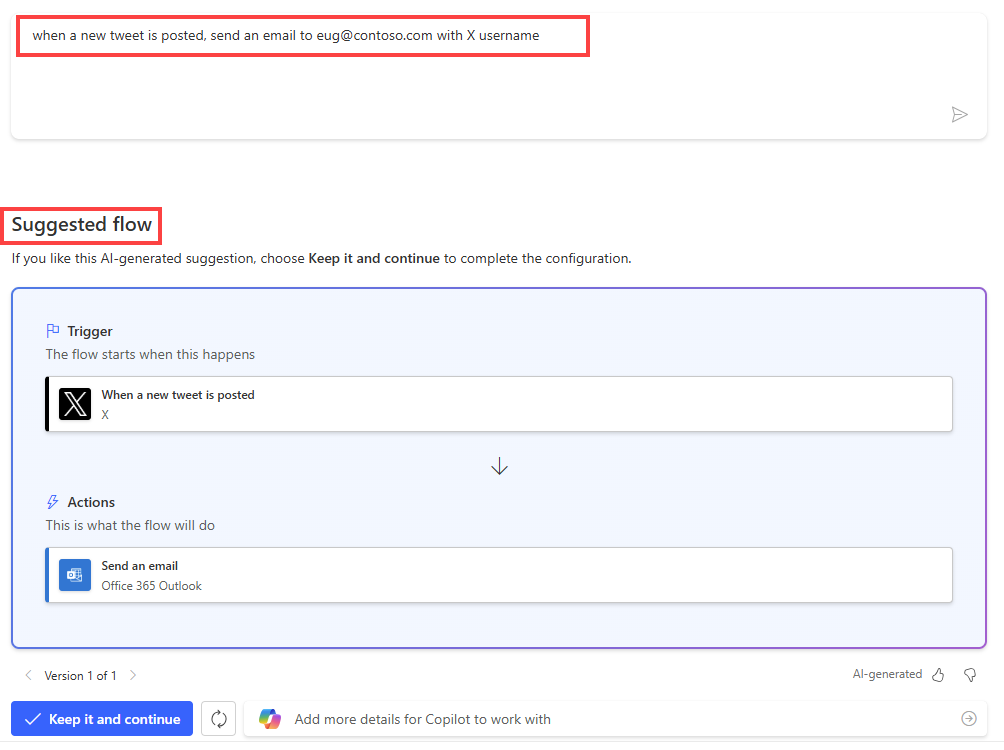
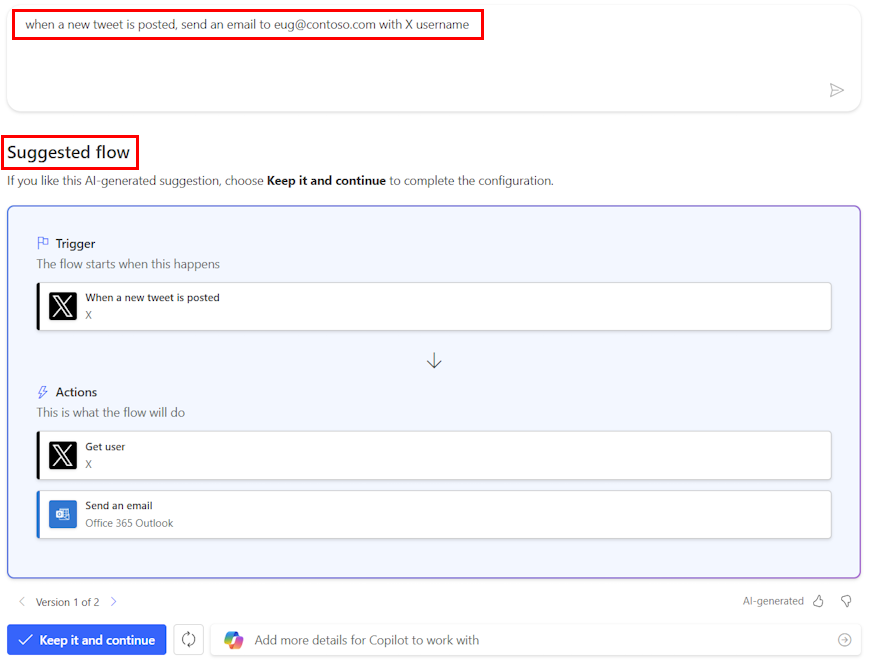
small-edits

diff --git a/articles/get-started-logic-flow.md b/articles/get-started-logic-flow.md
@@ -1,6 +1,6 @@
 ---
 title: Create a cloud flow in Power Automate
-description: Learn how to create a cloud flow that automatically performs one or more actions, such as sending email, when events like someone adding a row to a SharePoint list occur.
+description: Learn how to create a cloud flow that automatically performs one or more actions when an event occurs.
 suite: flow
 author: kisubedi
 contributors:
@@ -32,7 +32,7 @@ Create a cloud flow that performs one or more tasks automatically after an event
 - An X account
 - Office 365 credentials
 
-## Create a cloud flow when someone posts a tweet
+## Create a cloud flow
 
 [!INCLUDE[copilot-tab-experience](./includes/copilot-tab-experience.md)]
 
@@ -49,17 +49,16 @@ With Copilot, you can create a cloud flow using natural language. Copilot genera
 
 1. Select **Generate**.
 
-   Copilot suggests a flow based on your prompt:
+    Based on the description, Copilot begins to create a suggested *trigger* and *actions* for your flow. A trigger is an event that starts a cloud flow. Actions are the events you want the flow to do after the trigger event takes place.
 
-   :::image type="content" source="./media/get-started-logic-flow/copilot-natural-language-new-designer.png" alt-text="Screenshot of a prompt that uses natural language in Copilot.":::
+    In this example, the trigger is **When a new tweet is posted** and the actions are **Get user** and **Send an email**.
+
+    :::image type="content" source="./media/get-started-logic-flow/copilot-natural-language-new-designer.png" alt-text="Screenshot of a prompt that uses natural language in Copilot.":::
 
 1. Select **Keep it and continue**.
 
 1. Review your connected apps and services to X and Outlook. A green checkmark indicates that the connection is valid.
 1. Select **Next**. Your flow appears on the designer.
-
-   The new flow contains the **When a new tweet is posted** trigger and the **Send an email (V2)** action.
-
 1. Save the flow and it's ready to use.
 
    Your flow triggers when new tweets mentioning the key phrase *Contoso Company* are posted. It also sends an email to the specified email address in the **Send an email** action.
@@ -85,7 +84,7 @@ With Copilot, you can create a cloud flow using natural language. Copilot genera
    > [!TIP]
    > Connectors support multiple types of authentication. For example, SQL Server supports Microsoft Entra ID, SQL Server authentication, Windows authentication, and SQL connection string. Choose which type of authentication you want to use when configuring a connector.
 
-1. Go to [Configure your cloud flow](#configure-your-cloud-flow).
+1. Go to [Configure your cloud flow in the designer](#configure-your-cloud-flow-in-the-designer).
 
 ---
 
@@ -100,8 +99,10 @@ With Copilot, you can create a cloud flow using natural language. Copilot genera
 1. In the **Search for an action or connector** field, enter **send email**.
 1. Under **Office 365 Outlook**, select **Send an email (V2)**. The configuration pane opens.
 1. In the configuration pane, enter your email address in the **To** field.
-1. In the **Subject** box, enter **New tweet from:**, and then type a space.
+1. In the **Subject** field, enter **New tweet from:**, and then type a space.
 1. Select the lightning bolt to the right and select **Tweeted by** to add a placeholder for it.
+
+    If you don't see the **Tweeted by** dynamic content, select **See more** at the top of the list.
 
     :::image type="content" source="./media/get-started-logic-flow/add-parameter-new-designer.png" alt-text="Screenshot of adding the 'Tweeted by dynamic content in the new designer.":::
 
@@ -117,10 +118,10 @@ With Copilot, you can create a cloud flow using natural language. Copilot genera
 
 1. Make sure you completed the steps in [Create a cloud flow](#create-a-cloud-flow).
 1. Select **+ New step**.
-1. In the **Choose an operation** field, enter **send email**
-1. In the **Actions** list, select **Send an email (v2) - Office 365 Outlook**.
+1. In the **Choose an operation** field, enter **send email**.
+1. In the **Actions** list, select **Send an email (V2) - Office 365 Outlook**.
 1. In the **To** field, enter your email address.
-1. In the **Subject** box, enter **New tweet from:**, and then type a space.
+1. In the **Subject** field, enter **New tweet from:**, and then type a space.
 1. In the **Dynamic content** list, select **Tweeted by** to add a placeholder for it.
 
     :::image type="content" source="./media/get-started-logic-flow/add-parameter-classic-designer.png" alt-text="Screenshot of adding the Tweeted by dynamic content.":::
@@ -136,12 +137,12 @@ With Copilot, you can create a cloud flow using natural language. Copilot genera
 
 ## Test your flow
 
-Send a tweet with the keyword that you indicated, or wait for someone else to post such a tweet.
+After you [create a cloud flow](#create-a-cloud-flow) and save it, send a tweet with the keyword that you indicated, or wait for someone else to post such a tweet.
 
 In about a minute after the tweet is posted, an email message notifies you of the new tweet.
 
 > [!TIP]
-> Use the **Send email (V2)** action to format email in which you customize the font, use bold, italic or underline, customize the color and highlight, and create lists or links, and more.
+> Use the **Send email (V2)** action to format email in which you customize the font, use bold, italic, or underline, customize the color and highlight, create lists or links, and more.
 
 ## Manage a cloud flow
 
@@ -151,7 +152,7 @@ You can have up to 600 flows in your account. If you already have 600 flows, del
 
 1. On the navigation pane to the left, select **My flows**.
 
-1. In the list of flows, do any of the following:
+1. Select the vertical ellipsis (**&vellip;**) next to the flow you want to manage, and then do any of the following:
 
    * To pause a cloud flow, select **Turn off**.
 
@@ -159,7 +160,7 @@ You can have up to 600 flows in your account. If you already have 600 flows, del
 
    * To resume a cloud flow, select **Turn on**.
 
-   * To edit a cloud flow, select **Edit**, the pencil icon, that corresponds to the flow you want to edit.
+   * To edit a cloud flow, select **Edit** (or the pencil icon) that corresponds to the flow you want to edit.
 
    * To delete a cloud flow, **Delete**, and then select **Delete** on the message box that appears.
 
